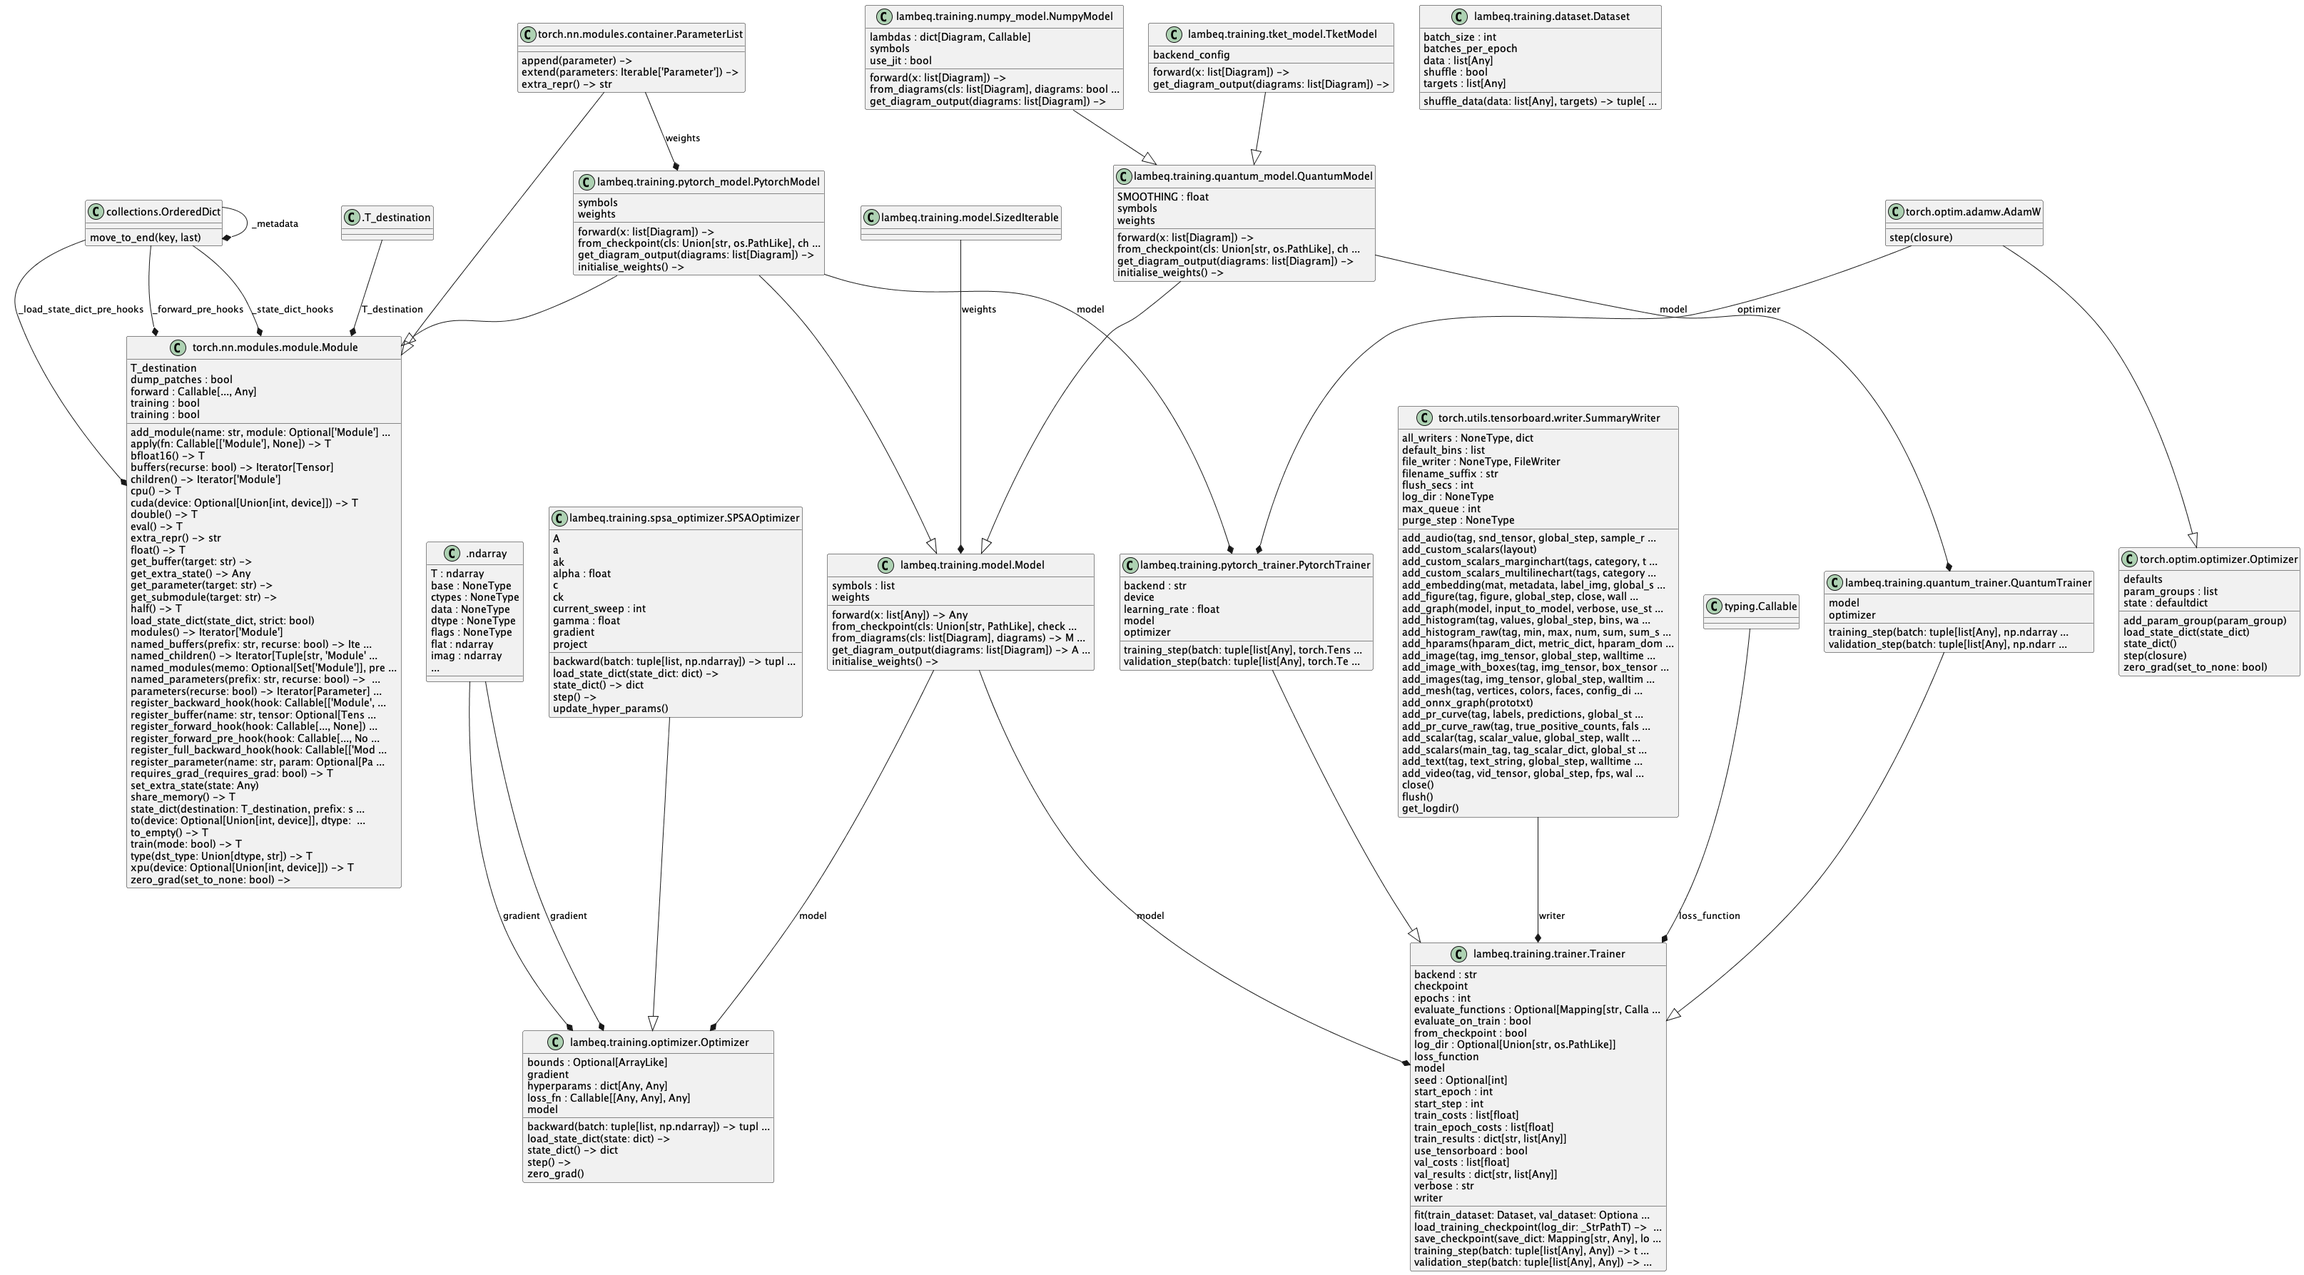
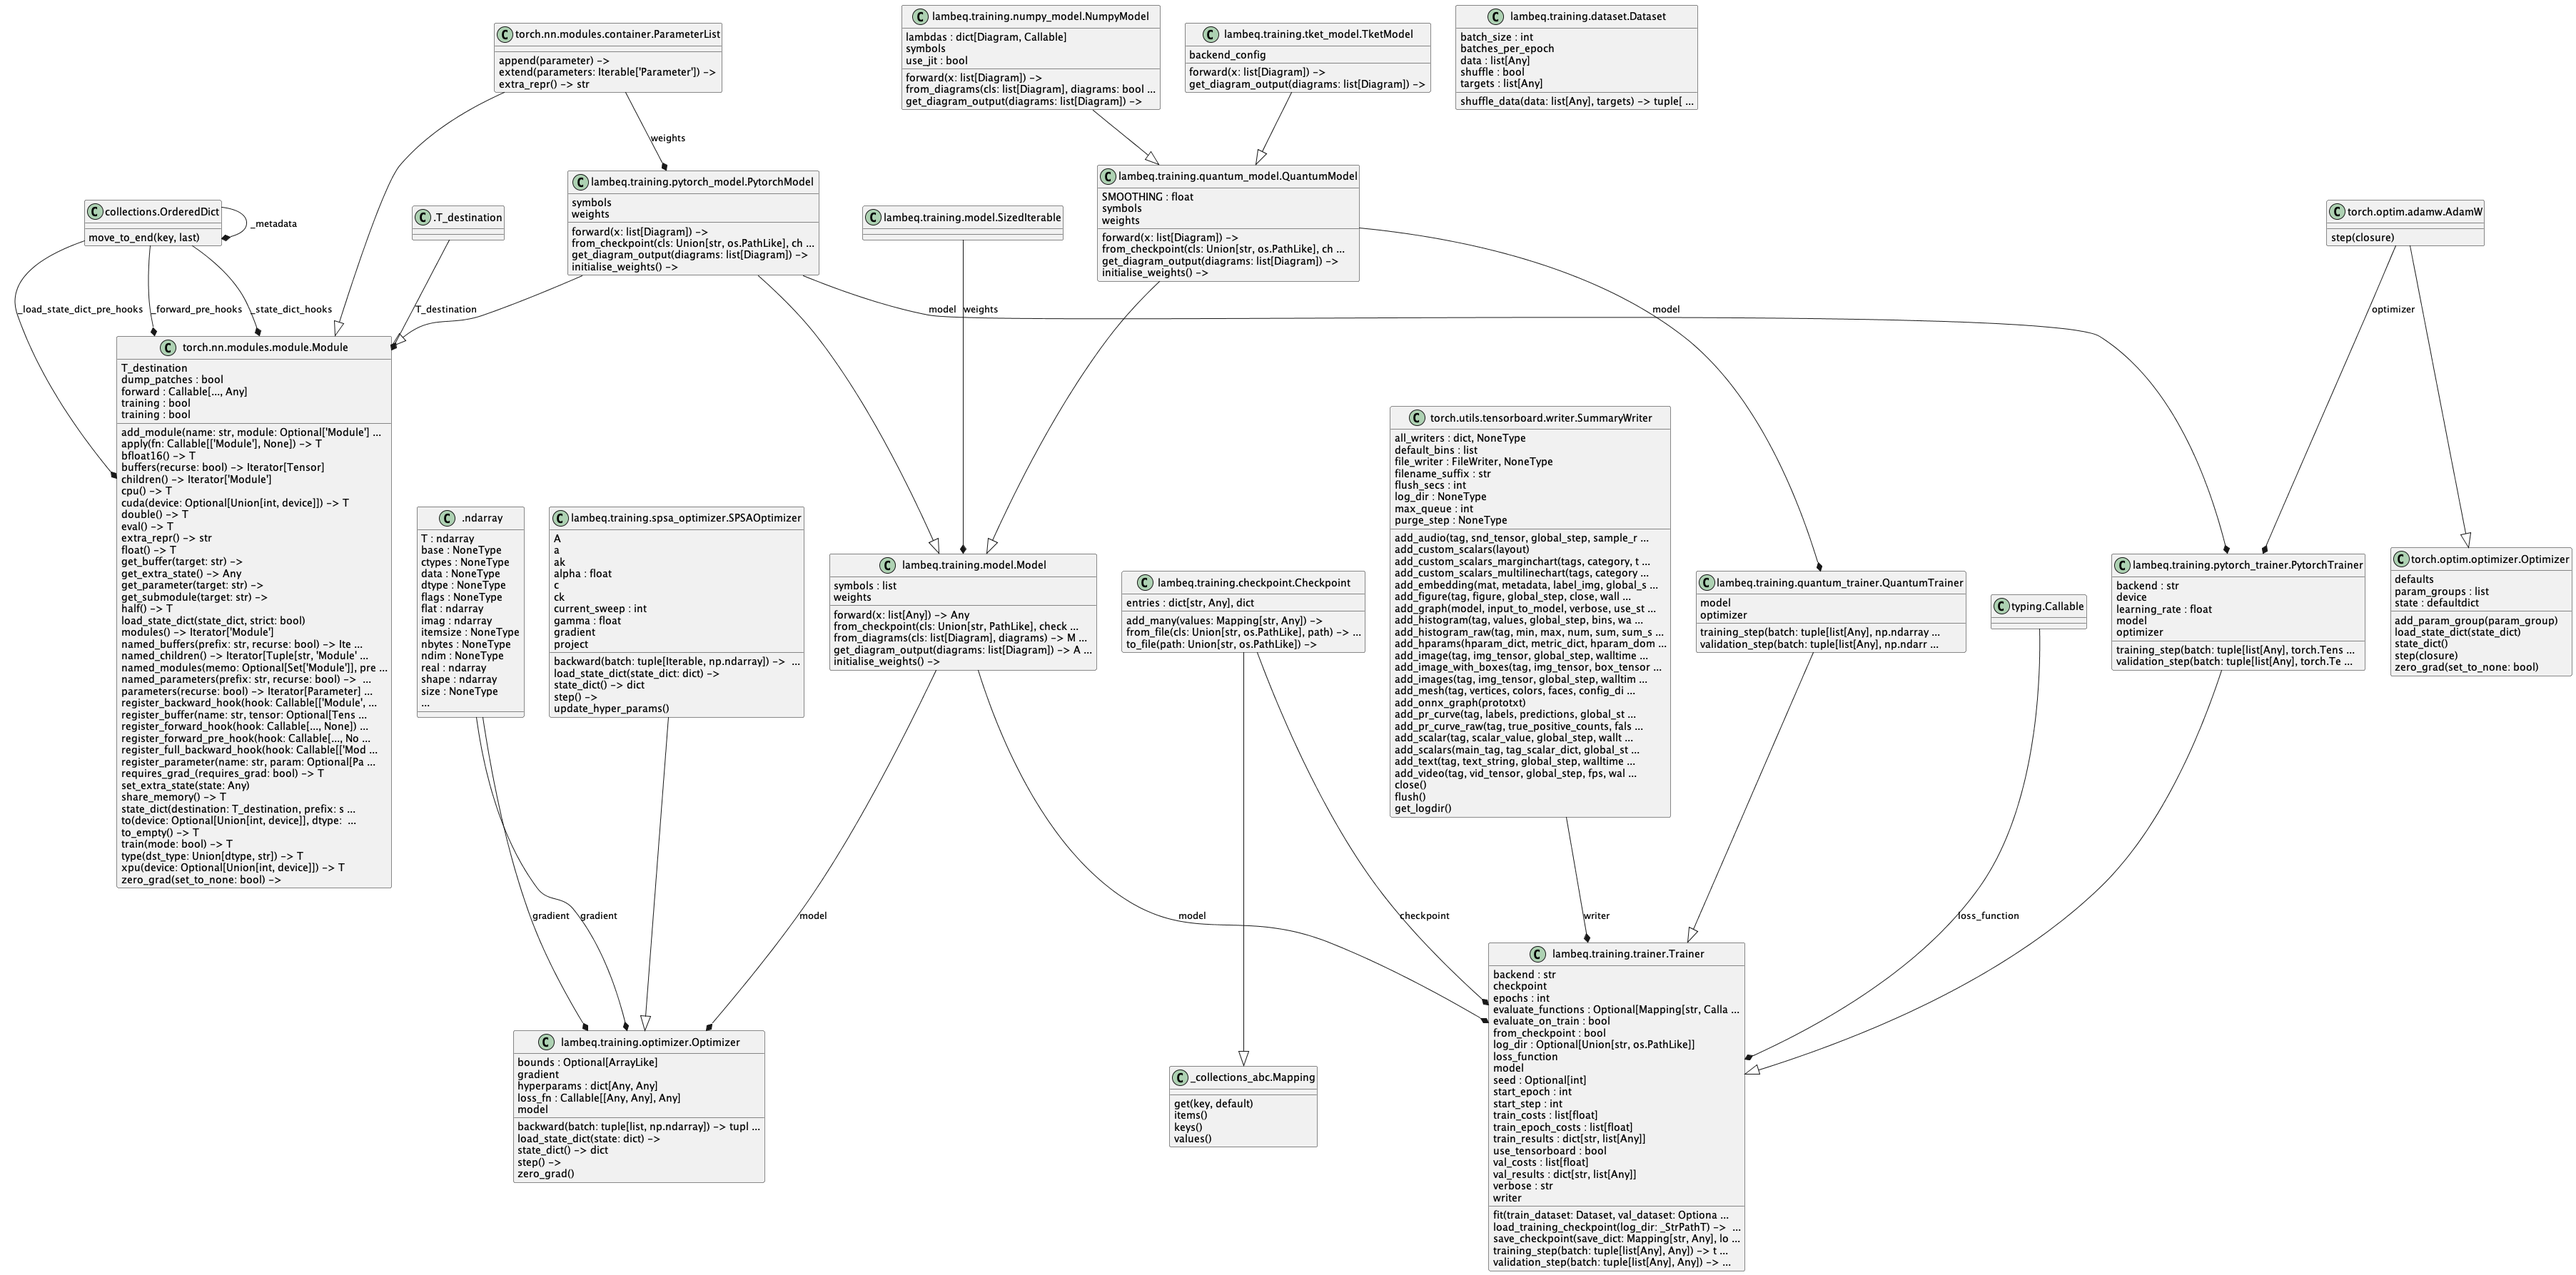
Add release notes for version 0.2.1 (#256)

diff --git a/docs/index.rst b/docs/index.rst
@@ -5,7 +5,7 @@ lambeq
    :width: 120px
    :align: right
 
-``lambeq`` is an open-source, modular, extensible high-level Python library for experimental :term:`Quantum Natural Language Processing <quantum NLP (QNLP)>` (QNLP), created by `Cambridge Quantum <https://cambridgequantum.com>`_'s QNLP team. At a high level, the library allows the conversion of any sentence to a :term:`quantum circuit`, based on a given :term:`compositional model` and certain parameterisation and choices of :term:`ansätze <ansatz (plural: ansätze)>`, and facilitates :ref:`training <sec-training>` for both quantum and classical NLP experiments. The notes for the latest Release 0.2.0 can be found :ref:`here <rel-0.2.0>`.
+``lambeq`` is an open-source, modular, extensible high-level Python library for experimental :term:`Quantum Natural Language Processing <quantum NLP (QNLP)>` (QNLP), created by `Cambridge Quantum <https://cambridgequantum.com>`_'s QNLP team. At a high level, the library allows the conversion of any sentence to a :term:`quantum circuit`, based on a given :term:`compositional model` and certain parameterisation and choices of :term:`ansätze <ansatz (plural: ansätze)>`, and facilitates :ref:`training <sec-training>` for both quantum and classical NLP experiments. The notes for the latest release can be found :ref:`here <sec-release_notes>`.
 
 ``lambeq`` is available for Python 3.8 and 3.9, on Linux, macOS and Windows. To install, type:
 

diff --git a/docs/release_notes.rst b/docs/release_notes.rst
@@ -3,6 +3,14 @@
 Release notes
 =============
 
+.. _rel-0.2.1:
+
+`0.2.1 <https://github.com/CQCL/lambeq/releases/tag/0.2.1>`_
+------------------------------------------------------------
+- A new :py:class:`.Checkpoint` class that implements pickling and file operations from the :py:class:`.Trainer` and :py:class:`.Model`.
+- Improvements to the :py:mod:`.training` module, allowing multiple diagrams to be accepted as input to the :py:class:`.SPSAOptimizer`.
+- Updated documentation, including sub-package structures and class diagrams.
+
 .. _rel-0.2.0:
 
 `0.2.0 <https://github.com/CQCL/lambeq/releases/tag/0.2.0>`_

diff --git a/docs/package-api.rst b/docs/package-api.rst
@@ -151,6 +151,7 @@ Provides a selection of :term:`trainers <trainer>`, :term:`models <model>`, and 
 .. rubric:: Classes
 
 .. inheritance-diagram::
+    lambeq.training.Checkpoint
     lambeq.training.Dataset
     lambeq.training.NumpyModel
     lambeq.training.PytorchModel
